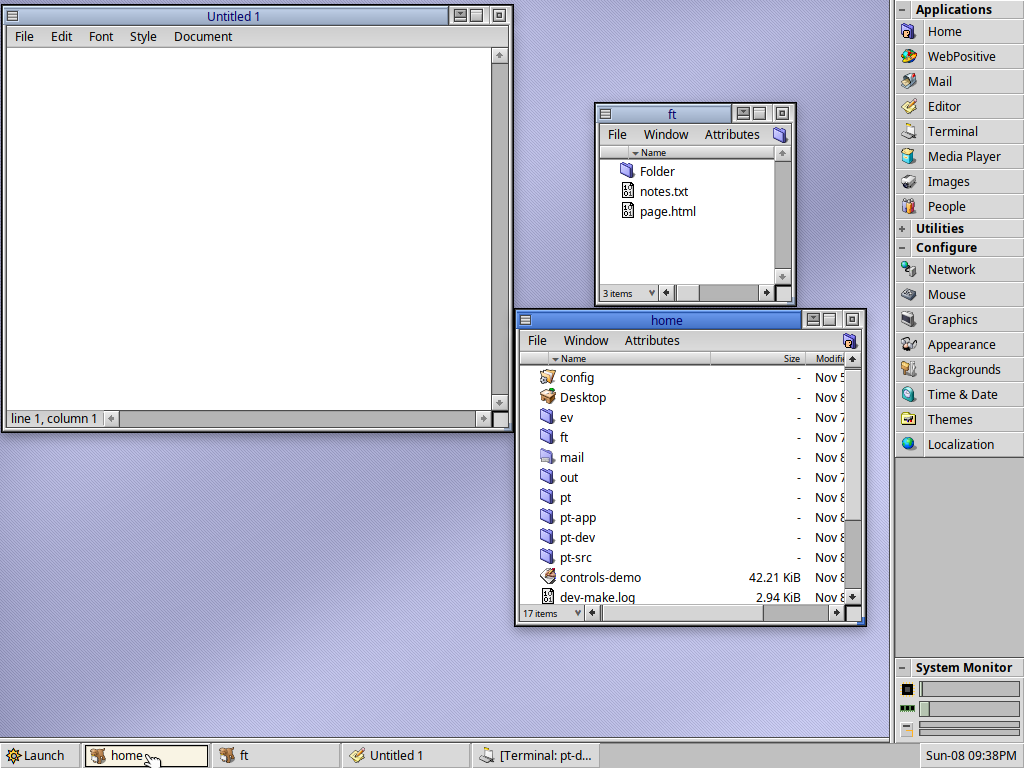
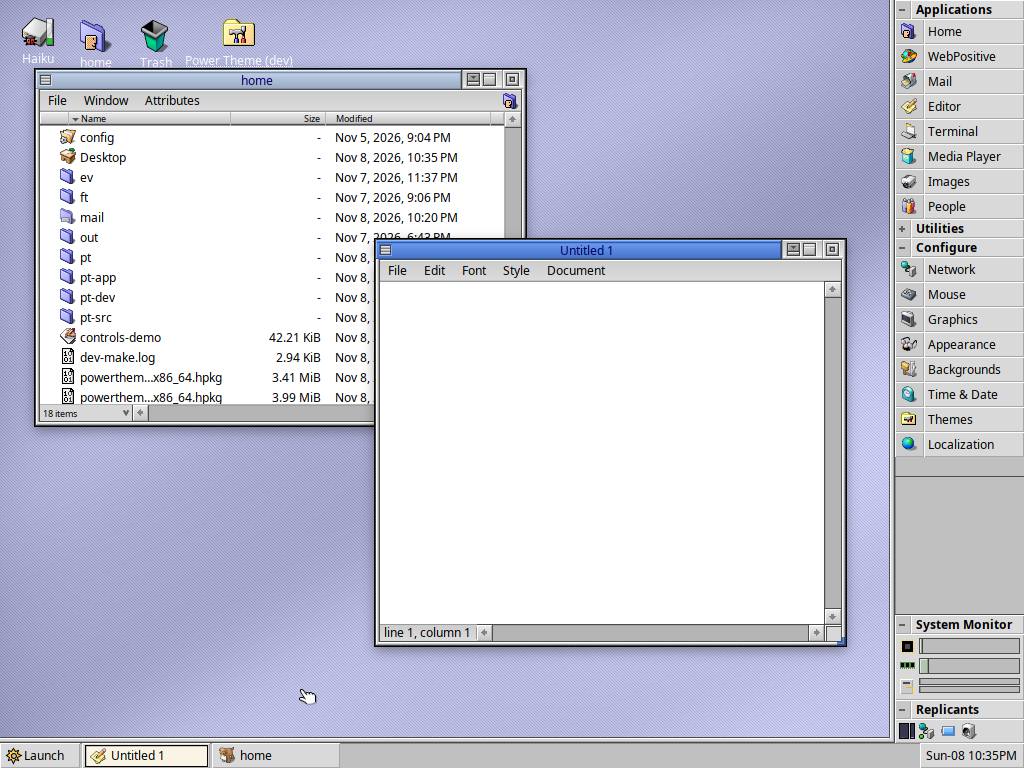
README: show the Photon shell near the top
A section of its own after the introduction, with a new screenshot of
the current shell, Replicants group included, under the QNX theme.

Claude-Session: https://claude.ai/code/session_01PoWUVRRtq76Ffr3wkNXK5V

diff --git a/README.md b/README.md
@@ -6,7 +6,8 @@
 and Haiku. It switches the whole look of the desktop between themes, and
 back: window borders, controls, colours, fonts, wallpaper, the Deskbar's
 place and freedesktop icon themes. It reads the themes made for Theme
-Manager (and BeOS and ZETA before it) too.
+Manager (and BeOS and ZETA before it) too. And it has a desktop shell of its
+own to use in place of the Deskbar: [the Photon shell](#the-photon-shell).
 
 It comes with its own looks:
 
@@ -46,6 +47,30 @@ Reactionary, Reactionary Plus or the themes they build on, or the
 ClassicOS project. It is a new implementation drawn to match the KDE
 theme. Colours and the title bar button glyphs come from the theme's
 files; the code shares nothing with them.
+
+## The Photon shell
+
+![The Photon shell under the QNX theme](docs/screenshots/photon-shell.png)
+
+A desktop shell laid out as QNX 6's Photon, in place of the Deskbar. Along the
+bottom is a taskbar:
+
+- **Launch**, which opens the Deskbar's menu of applications, with icons;
+- a button for each window;
+- a clock.
+
+Down the right is a shelf:
+
+- groups of launchers that open and close;
+- a system monitor;
+- **Replicants**, the Deskbar's tray items: volume, network, power and the rest.
+
+With the QNX theme it looks just like Photon. With any other theme it's drawn in
+that theme's own buttons and colours. The QNX theme turns it on. To keep it as
+your desktop shell, check **Photon shell** and **With every theme** in Power
+Theme's window, or run `powertheme --shell=photon --shell-every-theme=on`.
+launch_daemon starts it at login and again if it ends. It keeps windows clear of
+the taskbar and shelf. [More below](#whats-here).
 
 ## Haiku Dark
 
@@ -491,8 +516,6 @@ Rebuild the package when Hokku's decorator classes change; until then,
   under them stays where you put it. A replicant an application adds while the
   shell runs doesn't appear until the Deskbar has kept it, as applications add
   them by asking the Deskbar itself.
-
-  ![The Photon shell](docs/screenshots/photon-shell.png)
 - **The Gonx theme** (`data/themes/Gonx`): the look of
   [Gonx](https://github.com/idumych/gonx), with its colours, desktop colour
   and fonts over Haiku's defaults, and Haiku's icons. Power Theme builds
